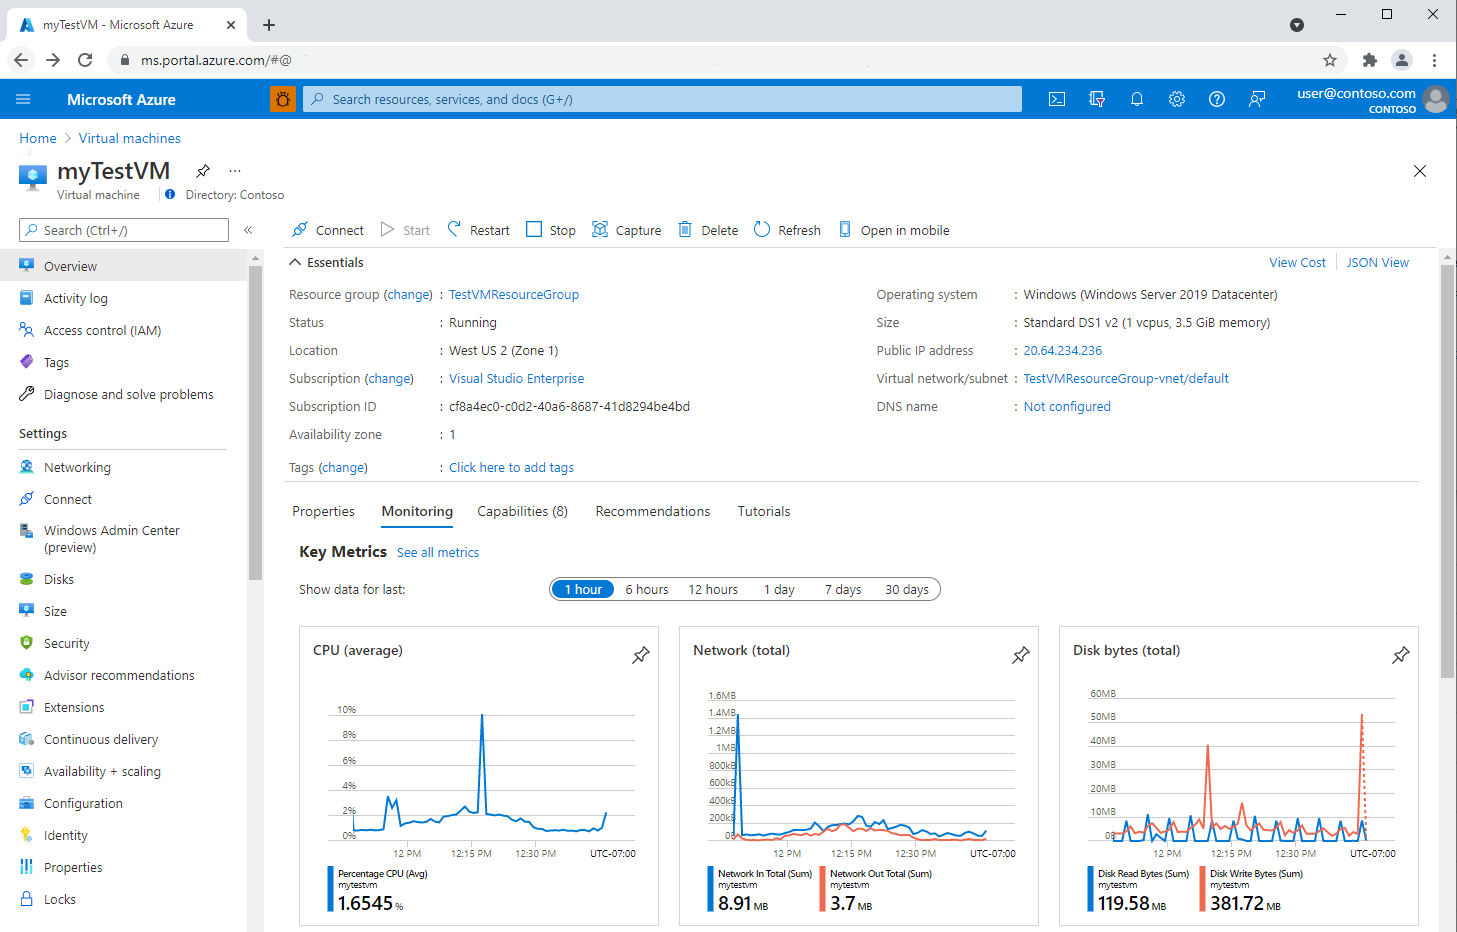
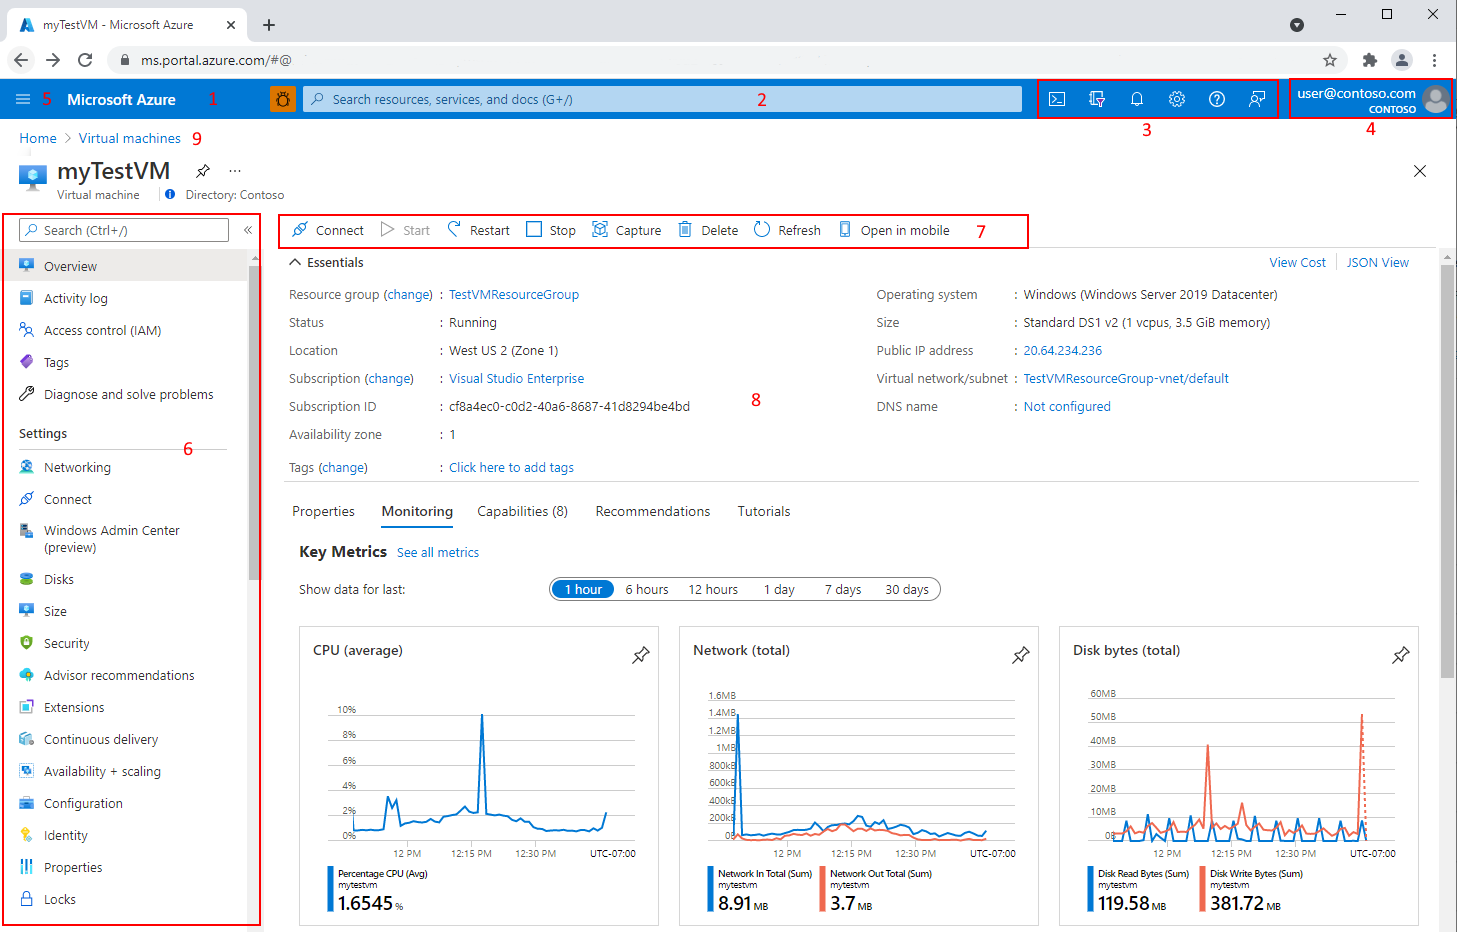
add callouts and update text

diff --git a/articles/azure-portal/azure-portal-overview.md b/articles/azure-portal/azure-portal-overview.md
@@ -48,25 +48,25 @@ It's helpful to understand the basic portal layout and how to interact with it. 
 
 The Azure portal menu and page header are global elements that are always present. These persistent features are the "shell" for the user interface associated with each individual service or feature and the header provides access to global controls. The configuration page (sometimes referred to as a "blade") for a resource may also have a resource menu to help you move between features.
 
-The figure below labels the basic elements of the Azure portal, each of which are described in the following table.
+The figure below labels the basic elements of the Azure portal, each of which are described in the following table. In this example, the current focus is a virtual machine, but the same elements apply no matter what type of resource or service you're working with.
 
-![Screenshot showing full-screen portal view and key to UI elements](./media/azure-portal-overview/azure-portal-overview-portal-callouts.png)
+:::image type="content" source="media/azure-portal-overview/azure-portal-overview-portal-callouts.png" alt-text="Screenshot showing the full-screen portal view and a key to UI elements.":::
 
-![Screenshot showing expanded portal menu](./media/azure-portal-overview/azure-portal-overview-portal-menu-callouts.png)
+:::image type="content" source="media/azure-portal-overview/azure-portal-overview-portal-menu-callouts.png" alt-text="Screenshot showing the expanded portal menu and a key to UI elements.":::
 
 |Key|Description
 |:---:|---|
 |1|Page header. Appears at the top of every portal page and holds global elements.|
-|2| Global search. Use the search bar to quickly find a specific resource, a service, or documentation.|
+|2|Global search. Use the search bar to quickly find a specific resource, a service, or documentation.|
 |3|Global controls. Like all global elements, these features persist across the portal and include: Cloud Shell, subscription filter, notifications, portal settings, help and support, and send us feedback.|
 |4|Your account. View information about your account, switch directories, sign out, or sign in with a different account.|
-|5|Portal menu. The portal menu is a global element that helps you to navigate between services. Sometimes referred to as the sidebar, the portal menu mode can be changed in **Portal settings**.|
-|6|Resource menu. Many services include a resource menu to help you manage the service. You may see this element referred to as the left pane.|
-|7|Command bar. The controls on the command bar are contextual to your current focus.|
-|8|Working pane.  Displays the details about the resource that is currently in focus.|
+|5|Azure portal menu. This global element can help you to navigate between services. Sometimes referred to as the sidebar. (Items 9 and 10 in this list appear in this menu.)|
+|6|Resource menu. Many services include a resource menu to help you manage the service. You may see this element referred to as the left pane. Here, you'll see commands that are contextual to your current focus.|
+|7|Command bar. These controls are contextual to your current focus.|
+|8|Working pane. Displays details about the resource that is currently in focus.|
 |9|Breadcrumb. You can use the breadcrumb links to move back a level in your workflow.|
-|10|Master control to create a new resource in the current subscription. Expand or open the portal menu to find **+ Create a resource**. You can also find this option on the **Home** page. Then, search or browse the Azure Marketplace for the resource type you want to create.|
-|11|Your favorites list. See [Add, remove, and sort favorites](../azure-portal/azure-portal-add-remove-sort-favorites.md) to learn how to customize the list.|
+|10|Master control to create a new resource in the current subscription. Expand or open the Azure portal menu to find **+ Create a resource**. You can also find this option on the **Home** page. Then, search or browse the Azure Marketplace for the resource type you want to create.|
+|11|Your favorites list in the Azure portal menu. To learn how to customize this list, see [Add, remove, and sort favorites](../azure-portal/azure-portal-add-remove-sort-favorites.md).|
 
 ## Get started with services
 
@@ -75,8 +75,8 @@ If you're a new subscriber, you'll have to create a resource before there's anyt
 We pre-populate your [Favorites](../azure-portal/azure-portal-add-remove-sort-favorites.md) in the sidebar with links to commonly used services.  To view all available services, select **All services** from the sidebar.
 
 > [!TIP]
-> The quickest way to find a resource, service, or documentation is to use *Search* in the global header. Use the breadcrumb links to go back to previous pages.
->
+> The quickest way to find a resource, service, or documentation is to use *Search* in the global header.
+
 Watch this video for a demo on how to use global search in the Azure portal.
 
 > [!VIDEO https://www.youtube.com/embed/nZ7WwTZcQbo]
